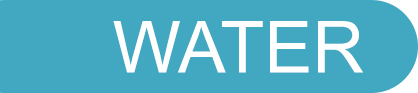
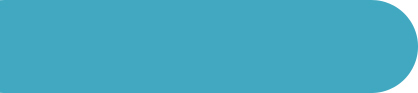
ui changes

Changed region(s): [[0.2488, 0.2151, 0.8708, 0.7957]]

diff --git a/main.js b/main.js
@@ -27,26 +27,16 @@ var audioRecorder = null;
 var rafID = null;
 var analyserContext = null;
 var recIndex = 0;
-var audio = new Audio('sound/Schwifty.mp3');
+var audio = new Audio('sound/water_110_195_words.wav');
+var word = "";
 audio.loop = true;
 
 window.onload = function(e) {
     var w = window.innerWidth - 100;
     var h = window.innerHeight - 100;
     
-    document.getElementById("main-screen").style.width = w + "px";
-//    document.getElementById("main-screen").style.height  = h + "px";
-    document.getElementById("main-screen").style.marginTop = "50px";
-    document.getElementById("main-screen").style.marginLeft = "50px";
-    
-//    w = (window.innerWidth - 120)/2;
-//    document.getElementById("end").style.marginLeft = w + "px";
-    
     w = (window.innerWidth - document.getElementById("analyser").offsetWidth )/2 - 50;
     document.getElementById("analyser").style.marginLeft = w + "px";
-    
-//    w = (window.innerWidth - document.getElementById("example-analyser").offsetWidth )/2;
-//    document.getElementById("example-analyser").style.marginLeft = w + "px";
 
     w = (window.innerWidth - 500 )/2 - 50;
     document.getElementById("continue-button").style.marginLeft = w + "px";
@@ -54,13 +44,18 @@ window.onload = function(e) {
     beginSession();
 }
 
-function startIt() {
+function startIt(w) {
+    word = w;
+    $("#word").text(w);
+    
+    
     $('.circle').addClass('open');
         $("#start-screen").addClass("fadeOut");
         $("#start-screen").addClass("animated");
-        setTimeout(function() {
             $("#start-screen").addClass('hidden');
             $("#start-screen").removeClass('show');
+            $("#start-next-screen").addClass('hidden');
+            $("#start-next-screen").removeClass('show');
             $('#opening-screen').addClass('hidden');
             $('#opening-screen').removeClass('show');
             $('#action-screen').addClass('fadeIn');
@@ -72,10 +67,8 @@ function startIt() {
                     $('#action-screen').removeClass('animated');
                     $('#start-screen').removeClass('fadeOut');
                     $('#start-screen').removeClass('animated');
-                    $('.circle').removeClass('open');
                 }, 1000);
             }, 1000);
-        }, 2000);
 }
 
 /** RECORDING **/
@@ -194,6 +187,7 @@ function gotStream(stream) {
         inputPoint.connect( zeroGain );
         zeroGain.connect( audioContext.destination );
         
+        audio = setAudio();
         audio.play();
         
         updateAnalysers();
@@ -208,6 +202,83 @@ function gotStream(stream) {
             endSession();
         }, 6000);
     }, 3000);
+}
+
+function setAudio(){
+    var w = $("#word").text();
+    if (w == 'Water') {
+        if (CurrentStep == 0) {
+            audio.src = 'sound/water_110_195_words.wav';
+        } else if (CurrentStep == 1) {
+            audio.src = 'sound/water_110_195_words.wav';
+        } else if (CurrentStep == 2) {
+            audio.src = 'sound/water_110_195_words.wav';
+        } else if (CurrentStep == 3) {
+            audio.src = 'sound/water_110_195_words.wav';
+        }
+        console.log(audio.src);
+    } else if (w == 'Hello') {
+        if (CurrentStep == 0) {
+            audio.src = 'sound/water_110_195_words.wav';
+        } else if (CurrentStep == 1) {
+            audio.src = 'sound/water_110_195_words.wav';
+        } else if (CurrentStep == 2) {
+            audio.src = 'sound/water_110_195_words.wav';
+        } else if (CurrentStep == 3) {
+            audio.src = 'sound/water_110_195_words.wav';
+        }
+    } else if (w == 'How Are You'){
+        if (CurrentStep == 0) {
+            audio.src = 'sound/water_110_195_words.wav';
+        } else if (CurrentStep == 1) {
+            audio.src = 'sound/water_110_195_words.wav';
+        } else if (CurrentStep == 2) {
+            audio.src = 'sound/water_110_195_words.wav';
+        } else if (CurrentStep == 3) {
+            audio.src = 'sound/water_110_195_words.wav';
+        }
+    } else if (w == 'I Am Good'){
+        if (CurrentStep == 0) {
+            audio.src = 'sound/water_110_195_words.wav';
+        } else if (CurrentStep == 1) {
+            audio.src = 'sound/water_110_195_words.wav';
+        } else if (CurrentStep == 2) {
+            audio.src = 'sound/water_110_195_words.wav';
+        } else if (CurrentStep == 3) {
+            audio.src = 'sound/water_110_195_words.wav';
+        }
+    } else if (w == 'I Love You'){
+        if (CurrentStep == 0) {
+            audio.src = 'sound/water_110_195_words.wav';
+        } else if (CurrentStep == 1) {
+            audio.src = 'sound/water_110_195_words.wav';
+        } else if (CurrentStep == 2) {
+            audio.src = 'sound/water_110_195_words.wav';
+        } else if (CurrentStep == 3) {
+            audio.src = 'sound/water_110_195_words.wav';
+        }
+    } else if (w == 'Ice Cream'){
+        if (CurrentStep == 0) {
+            audio.src = 'sound/water_110_195_words.wav';
+        } else if (CurrentStep == 1) {
+            audio.src = 'sound/water_110_195_words.wav';
+        } else if (CurrentStep == 2) {
+            audio.src = 'sound/water_110_195_words.wav';
+        } else if (CurrentStep == 3) {
+            audio.src = 'sound/water_110_195_words.wav';
+        }
+    } else if (w == 'Thank You'){
+        if (CurrentStep == 0) {
+            audio.src = 'sound/water_110_195_words.wav';
+        } else if (CurrentStep == 1) {
+            audio.src = 'sound/water_110_195_words.wav';
+        } else if (CurrentStep == 2) {
+            audio.src = 'sound/water_110_195_words.wav';
+        } else if (CurrentStep == 3) {
+            audio.src = 'sound/water_110_195_words.wav';
+        }
+    }
+    return audio;
 }
 
 function initAudio() {
@@ -254,16 +325,21 @@ function nextSession() {
 
 function sameSession() {
     //tell matlab this will be a repeated session
+    $("#start-next-screen").addClass("show");
+    $("#start-next-screen").removeClass("hidden");
     beginSession();
 }
 
 function beginSession() {
+    //next screen
     if (CurrentStep < INSTRUCTIONS.length) {
         console.log(CurrentStep);
         $("#start-instruction").empty();
         $("#start-instruction").html(INSTRUCTIONS[CurrentStep]);
         $("#action-instruction").empty();
         $("#action-instruction").html(STEPS[CurrentStep]);
+        $("#action-next-instruction").empty();
+        $("#action-next-instruction").html(INSTRUCTIONS[CurrentStep]);
 
         if (analyserContext != null) {
             analyserContext.clearRect(0,0,canvasWidth, canvasHeight);
@@ -279,10 +355,13 @@ function beginSession() {
         $("#opening-screen").addClass("show");
         $("#opening-screen").removeClass("hidden"); 
 
-        $('.circle').removeClass('open');
-
-        $("#start-screen").addClass("show");
-        $("#start-screen").removeClass("hidden"); 
+//        $("#start-screen").addClass("show");
+//        $("#start-screen").removeClass("hidden");
+        if (CurrentStep != 0) {
+            $("#start-next-screen").addClass("show");
+            $("#start-next-screen").removeClass("hidden");
+        }
+    //stats screen
     } else {
         $("#stats-screen").addClass("show");
         $("#stats-screen").removeClass("hidden");

diff --git a/main.html b/main.html
@@ -25,20 +25,47 @@
     
     <div id="start-screen" class="show">
         <div id="start-instruction" class="above-transparent">Instructions will go here!</div>
-        <img id="start" class="above-transparent" src="images/start.png" alt="START" onclick="startIt()">
+<!--        <img id="start" class="above-transparent" src="images/start.png" alt="START" onclick="startIt()">-->
+        
+<!--        water/hello/how are you/i am good/i love you/ice cream/thank you-->
+<!--
+        <img id="start" class="above-transparent" src="images/button.png" alt="START" onclick="startIt()">
+        <img id="start" class="above-transparent" src="images/button.png" alt="START" onclick="startIt()">
+        <img id="start" class="above-transparent" src="images/button.png" alt="START" onclick="startIt()">
+        <img id="start" class="above-transparent" src="images/button.png" alt="START" onclick="startIt()">
+        <img id="start" class="above-transparent" src="images/button.png" alt="START" onclick="startIt()">
+        <img id="start" class="above-transparent" src="images/button.png" alt="START" onclick="startIt()">
+        <img id="start" class="above-transparent" src="images/button.png" alt="START" onclick="startIt()">
+-->
+        <div class="all-buttons">
+            <div class="button above-transparent" alt="START" onclick="startIt('Water')">Water</div>
+            <div class="button above-transparent" alt="START" onclick="startIt('Hello')">Hello</div>
+            <div class="button above-transparent" alt="START" onclick="startIt('How Are You')">How Are You</div>
+            <div class="button above-transparent" alt="START" onclick="startIt('I Am Good')">I Am Good</div>
+            <div class="button above-transparent" alt="START" onclick="startIt('I Love You')">I Love You</div>
+            <div class="button above-transparent" alt="START" onclick="startIt('Ice Cream')">Ice Cream</div>
+            <div class="button above-transparent" alt="START" onclick="startIt('Thank You')">Thank You</div>
+        </div>
+    </div>
+    
+    <div id="start-next-screen" class="hidden">
+        <div id="action-next-instruction" class="above-transparent">Instructions will go here!</div>
+        <div class="all-buttons">
+            <div class="button above-transparent" alt="START" onclick="startIt()">Continue</div>
+        </div>
     </div>
     
     <div id="opening-screen" class="show" style="overflow:hidden">
-            <div class="circle"></div>
             <div class="blue"></div>
         </div>
     
     <div id="action-screen">
 
         <div class="word-area">
-            <img id="word" class="header" src="images/water.jpg" alt="WATER">
+<!--            <img id="word" class="header" src="images/water.jpg" alt="WATER">-->
+            <div id="word" class="header-word" alt="WORD">Fill in Phrase</div>
             <div id="action-instruction" class="header">INSTRUCTION</div>
-            <img class="image" class="header" src="images/water_image.jpg" alt="WATER IMAGE">
+<!--            <img class="image" class="header" src="images/water_image.jpg" alt="WATER IMAGE">-->
             <!--    a blinking light to represent the physical feedback-->
         </div>
         
@@ -57,8 +84,14 @@
     <!-- Continue Screen -->
     <div id="continue-screen" class="hidden">
         <div id="continue-button">
+<!--
             <img class="above-transparent" id="retry" src="images/retry.png" alt="RETRY" onclick="sameSession()">
             <img class="above-transparent" id="next-exercise" src="images/next.png" alt="NEXT" onclick="nextSession()">
+-->
+            <div>
+            <div id="left" class="button-red above-transparent" alt="RETRY" onclick="sameSession()">Retry</div>
+            <div id="right" class="button-next above-transparent" alt="NEXT" onclick="nextSession()">Next</div>
+                </div>
         </div>
 
         <div class="transparent"></div>

diff --git a/main.css b/main.css
@@ -90,9 +90,22 @@ body {
 #action-instruction {
     padding-left:200px;
 }
+#action-next-instruction {
+    text-align: center;
+}
 
 .header {
     float:left;
+}
+
+.header-word {
+    background-image: url("images/water.jpg");
+    float: left;
+    height: 93px;
+    width: 418px;
+    padding-top: 15px;
+    padding-left: 10px;
+    font-size: 250%;
 }
 
 div {
@@ -119,7 +132,7 @@ div {
 }
 
 #start-instruction {
-    padding:50px;
+    margin-bottom:50px;
 }
 
 .stats-image-entry {
@@ -137,8 +150,8 @@ div {
 
 .stats-table {
     position:absolute;
-    top:193px;
-    left:50px;
+    top: 143px;
+    left: 0px;
 }
 
 .stats-entry-score {
@@ -159,3 +172,43 @@ div {
 .stats-spacing {
     height: 23px;
 }
+
+.button {
+   width:200px; 
+   height:50px; 
+    vertical-align:middle;
+    padding:7px;
+    margin-bottom:10px;
+   background-image: url(images/button.png);   
+    margin-right: auto;
+margin-left: auto;
+}
+
+.button-red {
+       width:200px; 
+   height:50px; 
+    vertical-align:middle;
+    padding:7px;
+    margin-bottom:10px;
+   background-image: url(images/button-red.png);   
+    margin-right: auto;
+margin-left: auto;
+    display: inline-block;
+}
+
+.button-next {
+       width:200px; 
+   height:50px; 
+    vertical-align:middle;
+    padding:7px;
+    margin-bottom:10px;
+   background-image: url(images/button-next.png);   
+    margin-right: auto;
+margin-left: auto;
+    display: inline-block;
+}
+
+.all-buttons {
+    align-content: center;
+}
+
